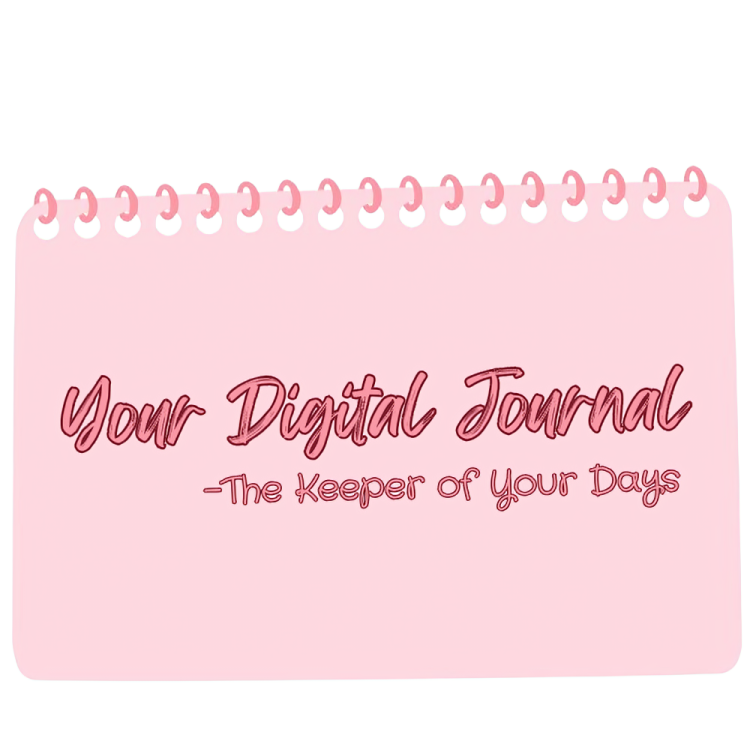
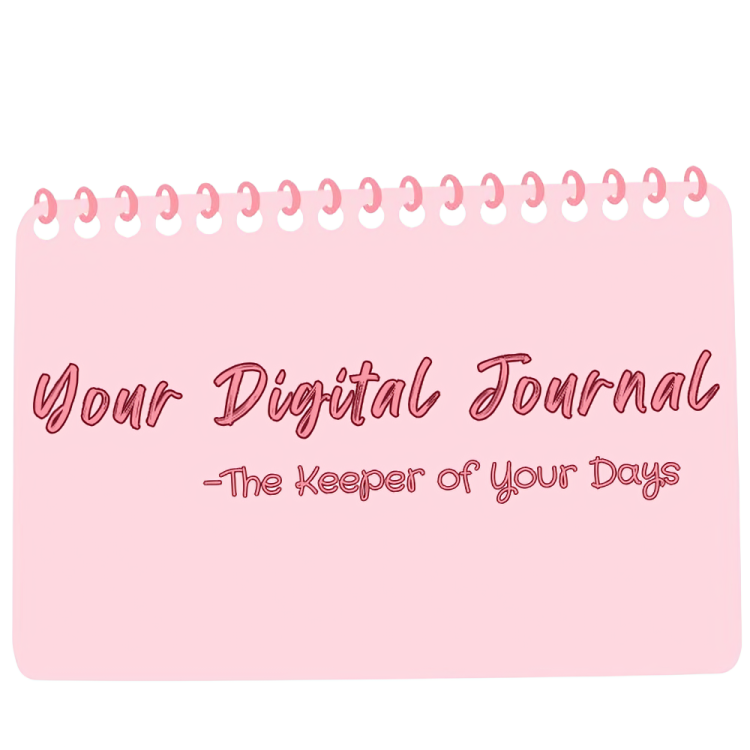
feat: Update img and scrolling

Changed region(s): [[0.0307, 0.46, 0.9507, 0.6747]]

diff --git a/client/src/pages/LandingPage.tsx b/client/src/pages/LandingPage.tsx
@@ -1,11 +1,23 @@
-import React from 'react';
+// 1. We need to import useEffect from React
+import React, { useEffect } from 'react'; 
 import { SignInButton } from '@clerk/clerk-react';
 import journalImage from '@/assets/digital-journal.png';
 
 const LandingPage = () => {
+  
+  // 2. This hook will add a style to the main page body to prevent scrolling
+  useEffect(() => {
+    // When this page loads, add 'overflow-hidden' to the <body>
+    document.body.classList.add('overflow-hidden');
+
+    // When the user navigates away from this page, remove the style
+    return () => {
+      document.body.classList.remove('overflow-hidden');
+    };
+  }, []); // The empty array [] means this effect runs only once when the page loads
+
   return (
-    // The classes on this div have been updated
-    <div className="flex flex-col items-center justify-center h-full text-center p-4 bg-white overflow-hidden">
+    <div className="flex flex-col items-center justify-center h-full text-center p-4 bg-white">
       
       <img
         src={journalImage}
@@ -14,8 +26,9 @@ const LandingPage = () => {
       />
 
       <SignInButton mode="modal">
+        {/* 3. The button classes have been changed back to the pink style */}
         <button
-          className="bg-black text-white font-bold px-8 py-3 rounded-full shadow-lg mt-8 hover:bg-zinc-800 transition-all duration-300 transform hover:scale-105"
+          className="bg-white text-pink-500 font-bold px-8 py-3 rounded-full shadow-lg mt-8 border border-pink-200 hover:bg-pink-100 transition-all duration-300 transform hover:scale-105"
         >
           Let's Get Started
         </button>
